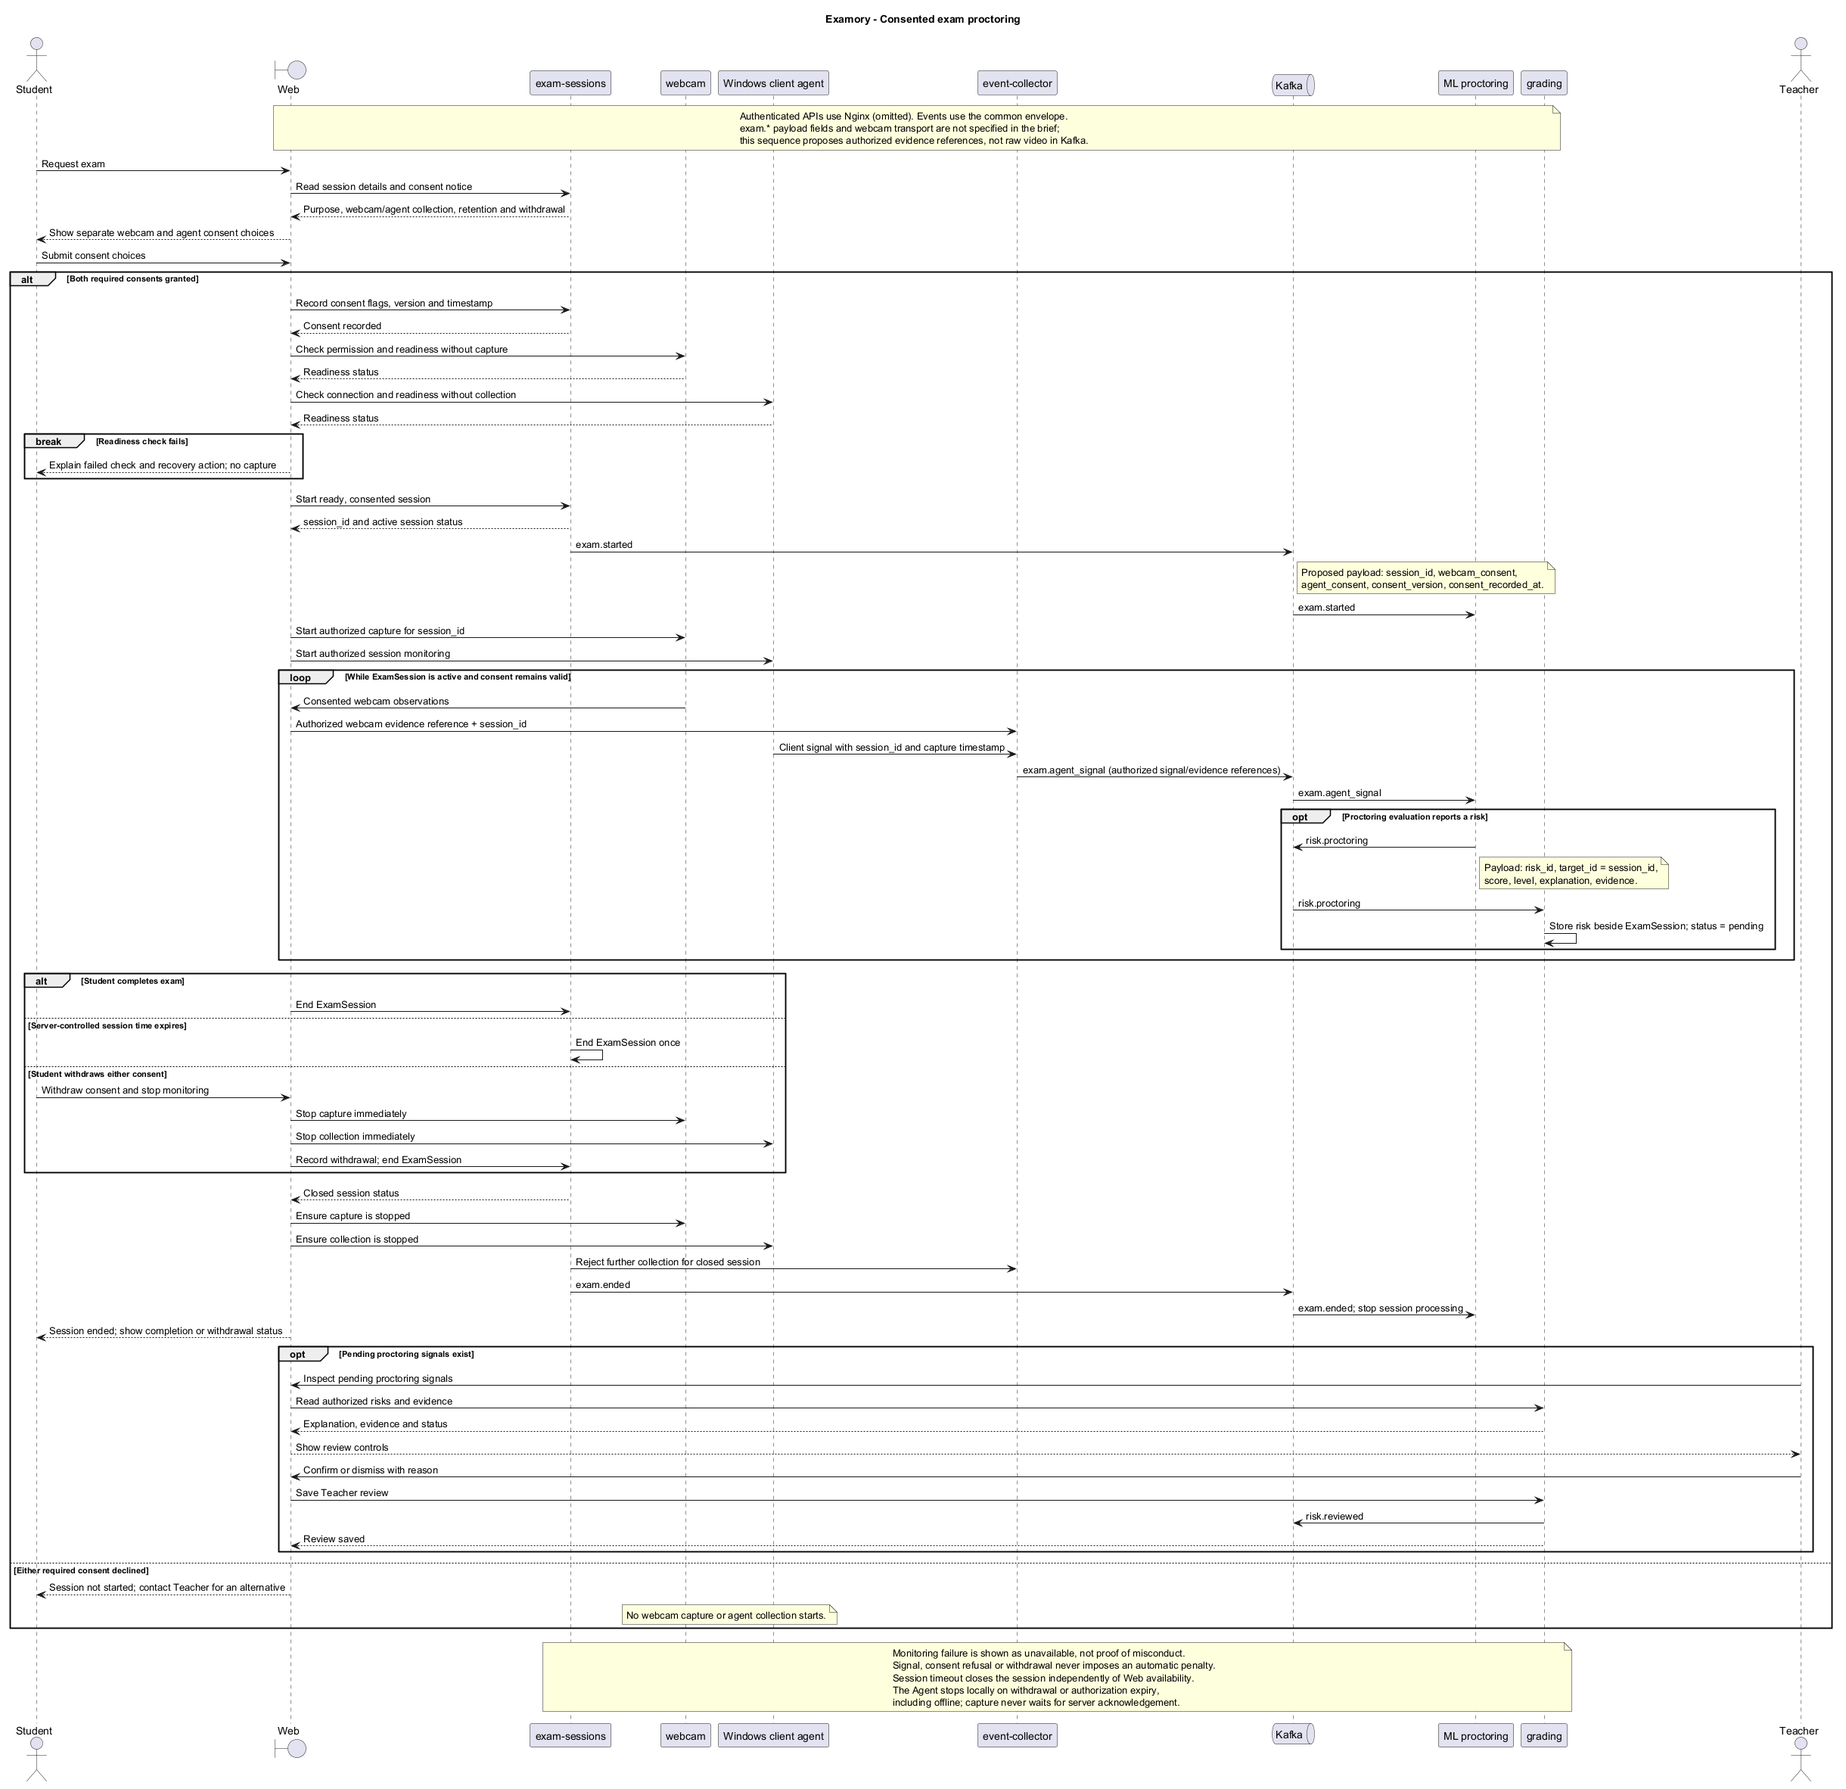
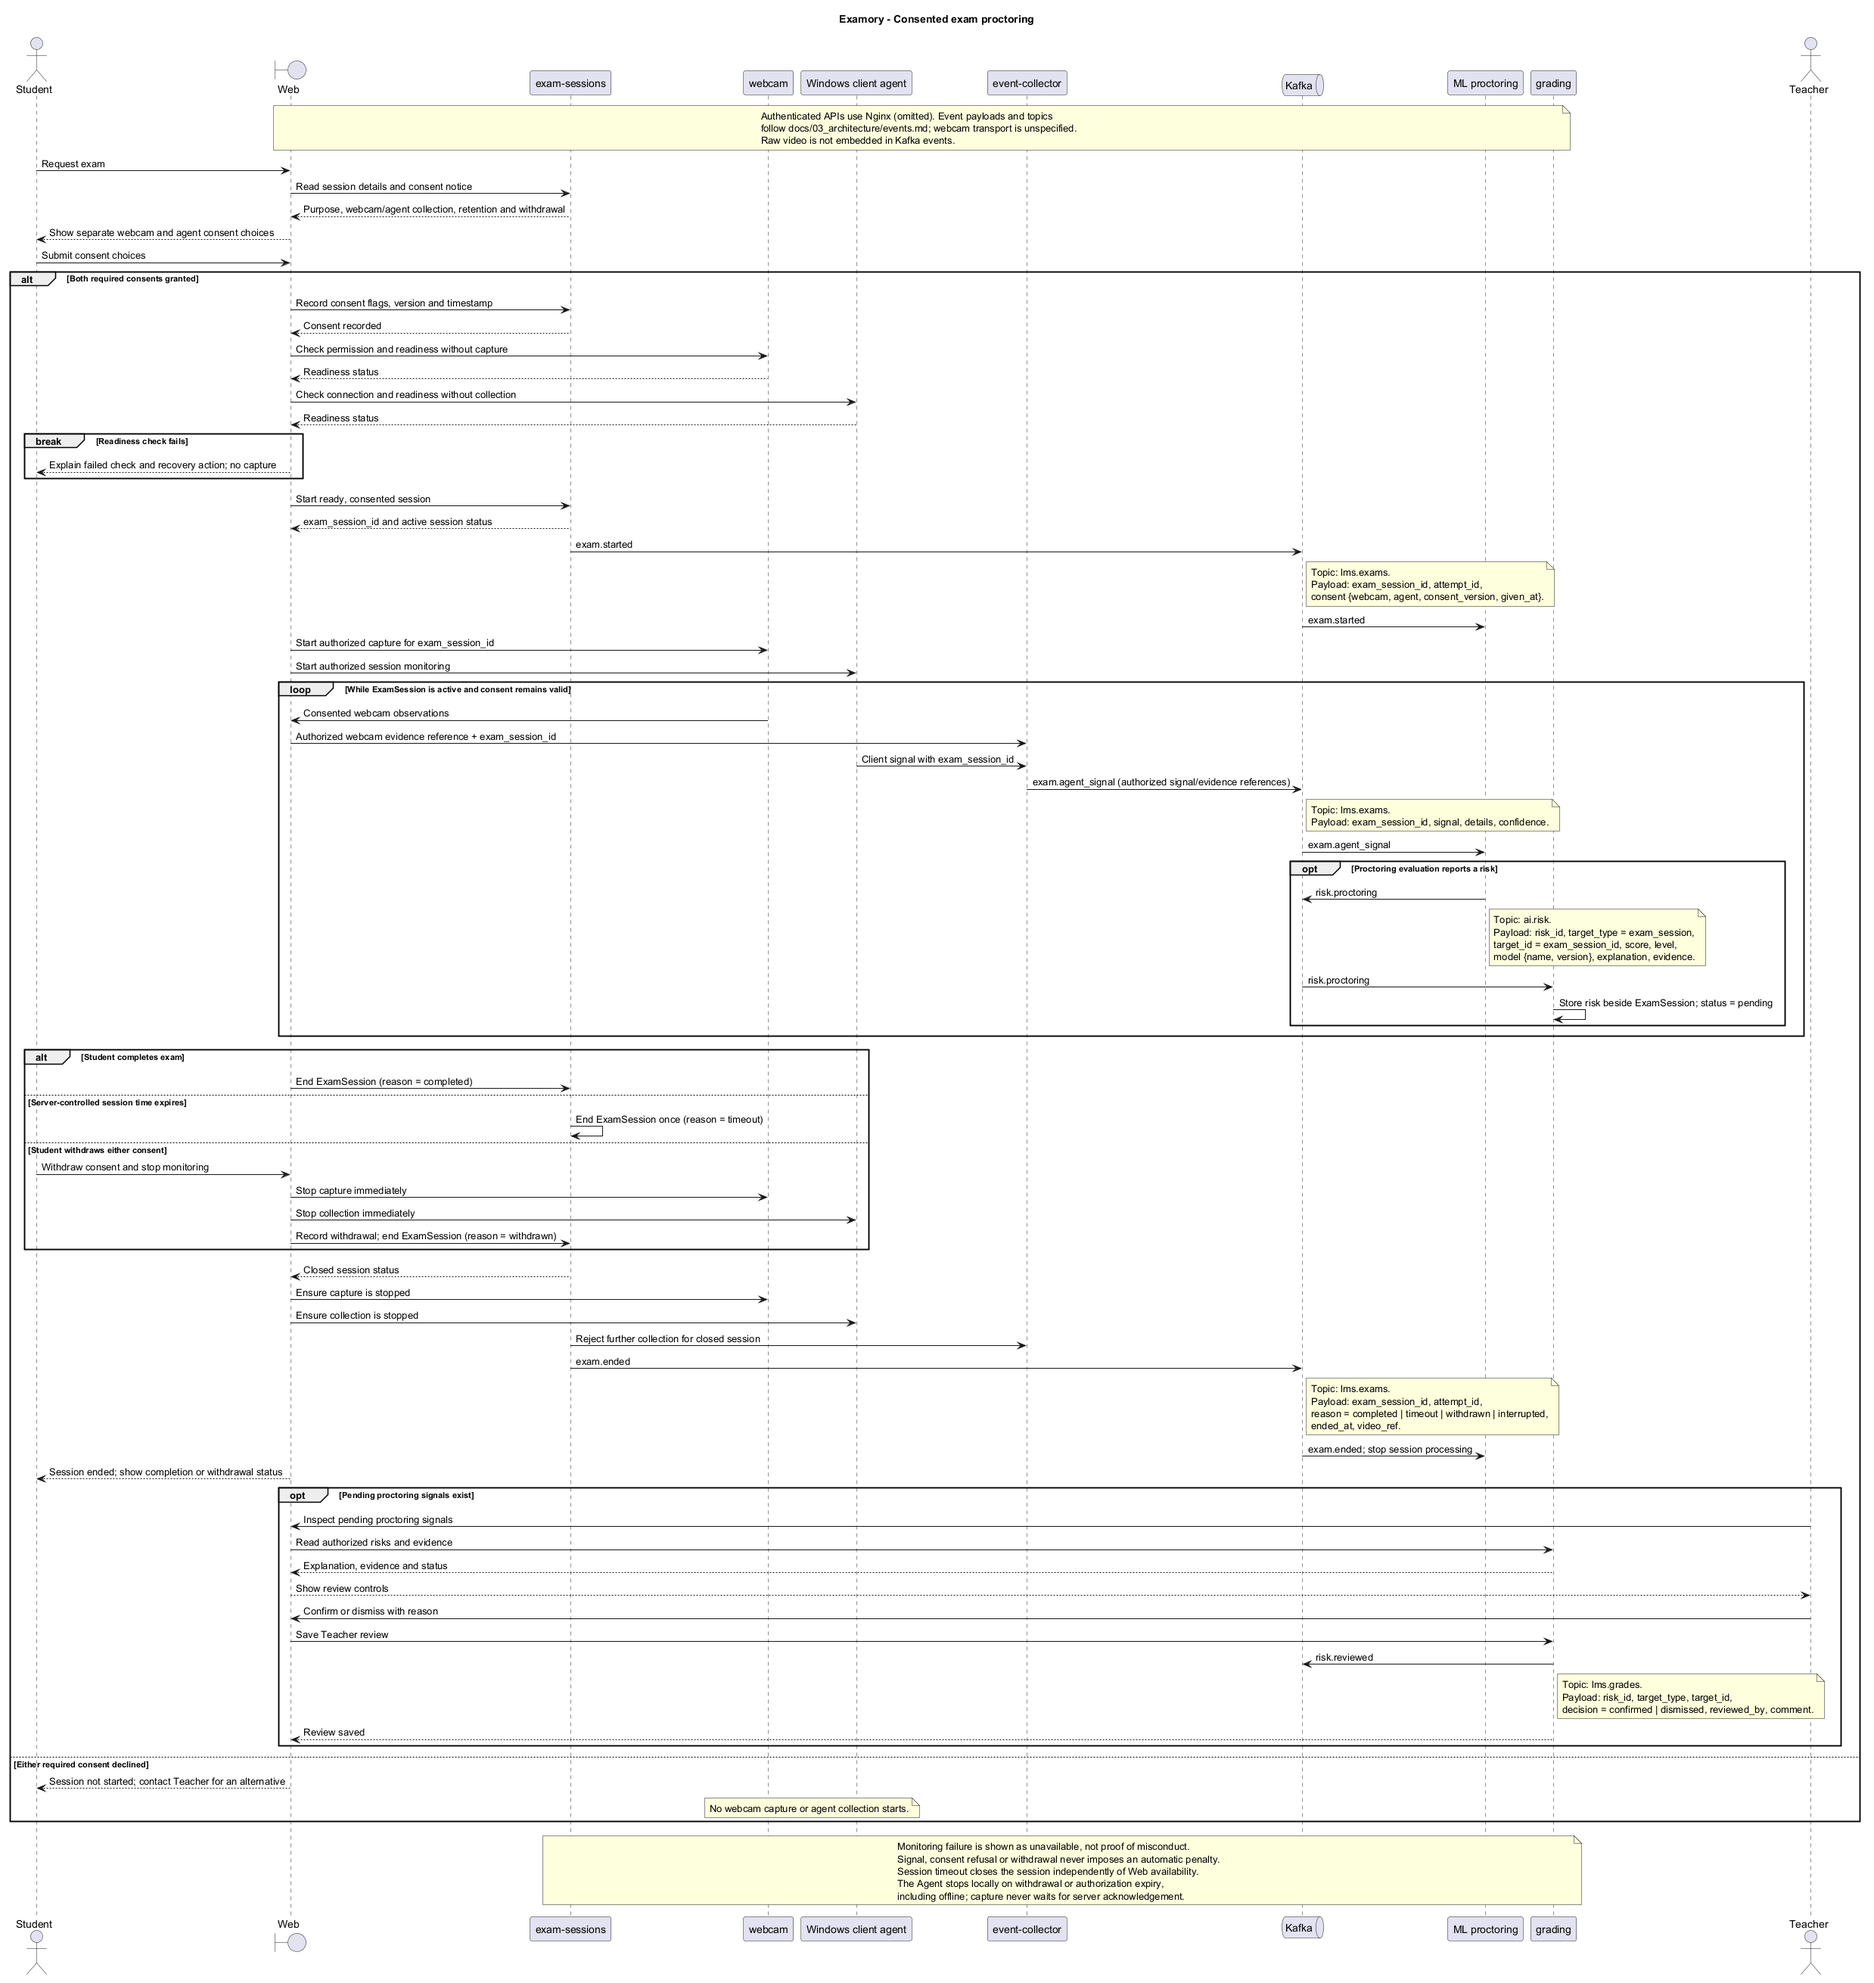
LMS-20: apply v0.2 contract review feedback

diff --git a/docs/02_requirements/technical_specification.md b/docs/02_requirements/technical_specification.md
@@ -130,11 +130,12 @@ Every event uses `event_id`, `event_type`, `version`, `occurred_at`, `producer`,
 | `quiz.started` | `attempt_id`, `quiz_id`, `variant_id`, `question_count`, `time_limit_sec`, `exam_session_id` (`null` when inapplicable) |
 | `quiz.answered` | `attempt_id`, `question_id`, `question_index`, `answer_hash`, `is_change`, `time_since_shown_ms`, `time_since_attempt_start_ms` |
 | `quiz.submitted` | `attempt_id`, `quiz_id`, `variant_id`, `score`, `max_score`, `duration_ms`, `answers_changed` |
-| `grade.assigned` | `target_type` (`submission` or `attempt`), `target_id`, `grade`, `max_grade`, `rubric_scores[{criterion_id, score}]`, `graded_by` |
+| `grade.assigned` | `target_type` (`submission` or `attempt`), `target_id`, `grade`, `max_grade`, optional `rubric_id`, optional `rubric_version`, `rubric_scores[{criterion_id, score}]`, `graded_by` |
 | ML `risk.*`, including `risk.variant_leak` | `risk_id`, `target_type` (`submission`, `attempt`, `exam_session`, or `variant`), `target_id`, `score`, `level`, `model{name, version}`, `explanation`, `evidence` |
 | `analytics.recommendation`, `analytics.group_risk`, `analytics.grade_suggestion` | `student_id`, `course_id`, `kind`, `items[]`, `explanation` |
-| `risk.reviewed` | `risk_id`, `decision` (`confirmed` or `dismissed`), `reviewed_by`, `comment`. This review event is distinct from the ML risk payload above. |
-| `exam.started`, `exam.ended` | `exam_session_id`, `attempt_id`, `consent{webcam, agent, given_at}`, `video_ref` |
+| `risk.reviewed` | `risk_id`, `target_type`, `target_id`, `decision` (`confirmed` or `dismissed`), `reviewed_by`, `comment`. This review event is distinct from the ML risk payload above. |
+| `exam.started` | `exam_session_id`, `attempt_id`, `consent{webcam, agent, consent_version, given_at}` |
+| `exam.ended` | `exam_session_id`, `attempt_id`, `reason` (`completed`, `timeout`, `withdrawn`, or `interrupted`), `ended_at`, `video_ref` |
 | `exam.agent_signal` | `exam_session_id`, `signal`, `details`, `confidence` |
 
 | Kafka topic | Event types |
@@ -148,7 +149,7 @@ Every event uses `event_id`, `event_type`, `version`, `occurred_at`, `producer`,
 | `ai.risk` | `risk.plagiarism`, `risk.ai_generated`, `risk.behavior_anomaly`, `risk.proctoring`, `risk.variant_leak` |
 | `ai.analytics` | `analytics.recommendation`, `analytics.group_risk`, `analytics.grade_suggestion` |
 
-Consumers resolve missing quiz, course, and topic metadata through authorized source-service reads. Proposal only: the contents of `analytics.*` `items[]` and `student_id = null` for group-scoped `analytics.group_risk` remain to be agreed.
+Consumers resolve missing quiz, course, and topic metadata through authorized source-service reads. The `items[]` structure by `kind` and `student_id = null` for group-scoped outputs are defined in `docs/03_architecture/events.md` §4.
 
 A `Grade` targets exactly one `Submission` or `Attempt`. A `RiskSignal` targets exactly one `Submission`, `Attempt`, `ExamSession`, or `Variant`; variant signals describe a population pattern, not an accusation against every participant. Course and group permissions apply to all linked evidence. Rubric versions and assessment scoring definitions remain traceable after edits. The class diagram is a logical cross-service model, not a shared-database design.
 
@@ -206,6 +207,7 @@ An active appeal may justify a specifically authorized hold with an owner, reaso
 - A learning-support candidate initially means a mean normalized quiz score <60% across at least 3 distinct quizzes, or at least 2 overdue required assignments. This designation is separate from misconduct risk.
 - Variant comparison uses the latest eligible completed attempt per student per window, a recent 7-day window and the preceding 30-day baseline, the configured quiz pass threshold, and at least 10 distinct students per window. A rise of at least 20 percentage points creates a review candidate. Recent-window students are excluded from baseline membership to avoid overlapping cohorts; counts are recomputed. Quiz/variant/scoring versions must match. Thresholds are configurable and are not a validated detector.
 - Deadline catalogs, rosters, rubric definitions, scored answers, and question-topic mappings come from scoped source-service reads because the listed events do not contain all required fields. No additional canonical event names are invented.
+- The `quiz.answered` counting conventions are fixed in `docs/03_architecture/events.md` §3: `question_index` is zero-based, `time_since_shown_ms` is cumulative since first display, and `quiz.submitted.answers_changed` counts events with `is_change = true`.
 - Uploads initially allow PDF, TXT, and ZIP up to 20 MB; exact allowed code archive content is configured per assignment. Dates use UTC storage and initial `Asia/Almaty` (Astana) display. Measurement targets and retention periods are proposed defaults.
 
 ## 7. Acceptance criteria for MVP

diff --git a/docs/04_uml/prototypes/dashboards_spec.md b/docs/04_uml/prototypes/dashboards_spec.md
@@ -102,4 +102,4 @@ For prototype review, prepare two populated desktop frames, two mobile frames, a
 
 Acceptance walkthrough: a student sees progress, weak-topic evidence, recommendations, and upcoming deadlines; a teacher filters a group, identifies a learning-support candidate, reviews risk evidence with a rationale, edits a rubric suggestion before assigning Grade, and inspects a variant comparison that exposes sample size and limitations. No walkthrough produces an automatic misconduct verdict.
 
-Assumptions: Dashboard dimensions, metric thresholds, comparison windows, UTC storage with `Asia/Almaty` (Astana) display, scoped reference APIs, and analytics `items[]`/group-scope extensions are proposed defaults pending team contract alignment.
+Assumptions: Dashboard dimensions, metric thresholds, comparison windows, and scoped reference APIs are proposed defaults pending team contract alignment. UTC storage, `Asia/Almaty` (Astana) display, and analytics `items[]`/group-scope behavior follow `docs/03_architecture/events.md`.
